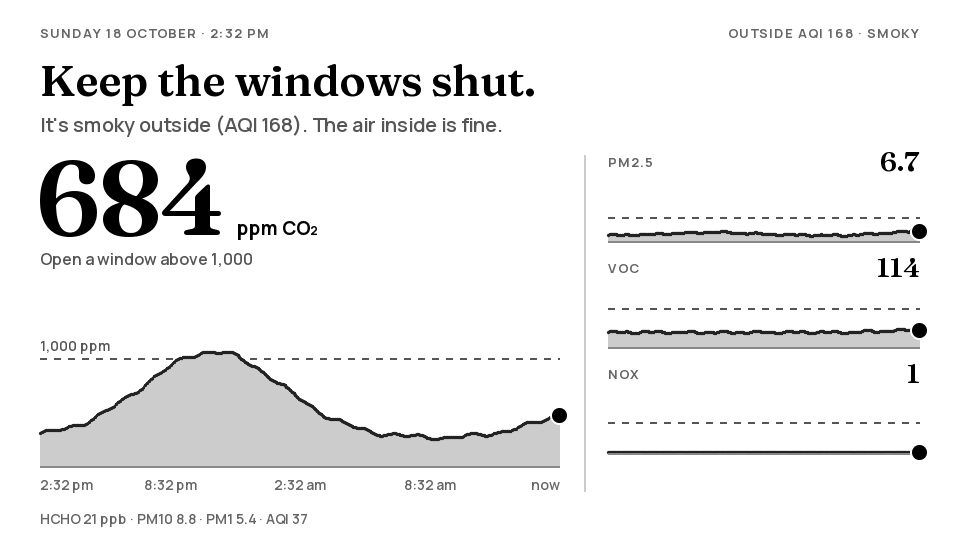
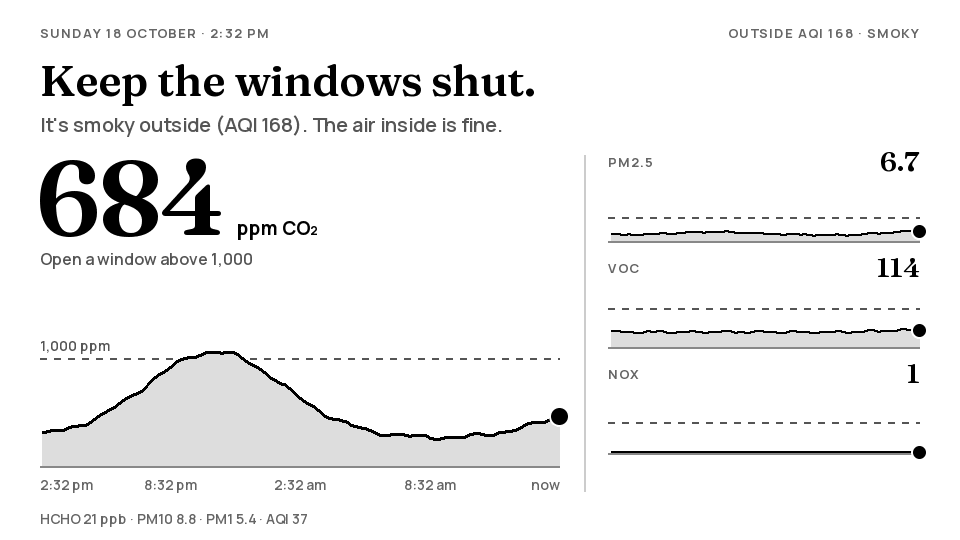
Plots: smooth, even line; option to scale each plot to its data
The line was anti-aliased at 1.6 px through every 5-minute point, and on
the panel's 16 greys that came out 1 px here and 2 px there, with the
sensor's noise on top: it looked hand-drawn. The readings are now
averaged into steps at least 3 px wide, lightly smoothed, and drawn as a
hard-edged line of even thickness (3 px on the big plot, 2 px on the
others) over a pale fill.

Settings > Main screen plots has "Scale each plot to its data". On,
each plot fits its own low and high (with a minimum range per reading so
noise isn't blown up), the big plot notes the low and high, and the
limit line only shows when the data comes near it. Firmware 2.1.

diff --git a/lib/ui/src/screen.cpp b/lib/ui/src/screen.cpp
@@ -175,55 +175,123 @@ Hero hero(const ScreenData &d) {
 }
 
 // ---- 24-hour chart -------------------------------------------------------------
-// labels: 0 none, 3 or 5 times along the bottom. hours: how far back it goes.
+// The smallest range a chart scaled to its data shows, so sensor noise isn't blown up into waves
+float min_span(Metric m) {
+  switch (m) {
+    case Metric::CO2: return 150;
+    case Metric::PM1:
+    case Metric::PM25:
+    case Metric::PM10: return 4;
+    case Metric::VOC: return 30;
+    case Metric::NOx: return 5;
+    case Metric::HCHO: return 10;
+    default: return 1;
+  }
+}
+
+std::string value_text(Metric m, float v) {
+  if (m == Metric::CO2) return air::with_commas(v);
+  return fmt(m == Metric::PM1 || m == Metric::PM25 || m == Metric::PM10 ? "%.1f" : "%.0f", v);
+}
+
+// labels: 0 none, 3 or 5 times along the bottom. hours: how far back it goes. thick: the line, px.
+// range: write the period's low and high above the chart (when it's scaled to the data).
 void chart(M5Canvas &c, const ScreenData &d, int x, int y, int w, int h, Metric m, float lo, float hi, float limit,
-           const std::string &limit_label, int labels, int hours = 24) {
+           const std::string &limit_label, int labels, int hours = 24, int thick = 2, bool range = false) {
   const air::History &hist = *d.history;
   const int slots = std::clamp(hours, 1, 24) * 12;   // 5-minute periods
   const int n = std::min(hist.size(), slots);
-  float top = hi;
-  for (int age = 0; age < n; age++) {
-    const float v = hist.at(m, age);
-    if (!std::isnan(v)) top = std::max(top, v * 1.1f);
+
+  // Averaged into steps at least 3 px wide, then lightly smoothed: drawn point by point, the
+  // sensor's 5-minute noise made the line look scribbled
+  const int per = std::max(1, (int) std::ceil(slots * 3.0f / w));   // 5-minute periods a step
+  const int steps = (slots + per - 1) / per;                         // step 0 is the newest
+  std::vector<float> avg(steps, NAN), sm(steps, NAN);
+  float vmin = INFINITY, vmax = -INFINITY;
+  for (int s = 0; s < steps; s++) {
+    float sum = 0;
+    int cnt = 0;
+    for (int age = s * per; age < std::min(n, (s + 1) * per); age++) {
+      const float v = hist.at(m, age);
+      if (std::isnan(v)) continue;
+      sum += v;
+      cnt++;
+      vmin = std::min(vmin, v);
+      vmax = std::max(vmax, v);
+    }
+    if (cnt) avg[s] = sum / cnt;
   }
-  auto X = [&](int age) { return x + w - 1 - age * (w - 1) / (slots - 1); };
+  for (int s = 0; s < steps; s++) {
+    if (std::isnan(avg[s])) continue;
+    float sum = 2 * avg[s], wsum = 2;
+    for (int nb : {s - 1, s + 1})
+      if (nb >= 0 && nb < steps && !std::isnan(avg[nb])) {
+        sum += avg[nb];
+        wsum += 1;
+      }
+    sm[s] = sum / wsum;
+  }
+  const bool any = vmin <= vmax;
+
+  // The scale: from the reading's usual range up to its limit, or fitted to the data
+  float top = hi;
+  if (any && d.fit_scale) {
+    const float span = std::max(vmax - vmin, min_span(m));
+    const float mid = (vmax + vmin) / 2;
+    lo = std::max(0.0f, mid - span * 0.6f);
+    top = lo + span * 1.35f;   // headroom, so the newest point's dot clears the value above the plot
+  } else if (any) {
+    top = std::max(hi, vmax * 1.1f);
+  }
+  auto X = [&](int step) { return x + w - 1 - step * per * (w - 1) / (slots - 1); };
   auto Y = [&](float v) { return y + h - (int) std::lround(std::clamp((v - lo) / (top - lo), 0.0f, 1.0f) * h); };
 
-  bool any = false;
-  for (int age = 0; age < n && !any; age++) any = !std::isnan(hist.at(m, age));
-
-  // Limit, dashed, under the data
+  // Limit, dashed, under the data (only when it's in range)
   if (any && limit > lo && limit < top) {
     const int ly = Y(limit);
     for (int xx = x; xx < x + w; xx += 14) c.fillRect(xx, ly - 1, std::min(7, x + w - xx), 2, grey(5));
     if (!limit_label.empty()) text(c, sans_small, limit_label, x, ly - 8, 5);
   }
-  // Shaded area and line, broken where there were no readings
-  int valid = 0, px = 0, py = 0, ex = -1, ey = -1;
-  for (int age = n - 1; age >= 0; age--) {
-    const float v = hist.at(m, age);
-    if (std::isnan(v)) {
-      valid = 0;
+  if (any && range) {
+    text(c, sans_small, "low " + value_text(m, vmin) + " · high " + value_text(m, vmax), x + w, y - 8, 6,
+         textdatum_t::baseline_right);
+  }
+
+  // The line's height in each pixel column (-1: no reading), joined straight between steps
+  std::vector<int> col(w, -1);
+  int px = -1, py = 0, ex = -1, ey = -1;
+  for (int s = steps - 1; s >= 0; s--) {
+    if (std::isnan(sm[s])) {
+      px = -1;
       continue;
     }
-    const int cx = X(age), cy = Y(v);
-    if (valid) {
-      for (int xi = px; xi <= cx; xi++) {
-        const int yi = py + (cy - py) * (xi - px) / std::max(1, cx - px);
-        c.drawFastVLine(xi, yi, y + h - yi, grey(12));
-      }
-      c.drawWideLine(px, py, cx, cy, 1.6f, grey(2));
-    }
+    const int cx = X(s), cy = Y(sm[s]);
+    if (px < 0) col[cx - x] = cy;
+    for (int xi = px < 0 ? cx : px; xi <= cx; xi++) col[xi - x] = py + (cy - py) * (xi - px) / std::max(1, cx - px);
+    if (px < 0) col[cx - x] = cy;
     px = cx;
     py = cy;
     ex = cx;
     ey = cy;
-    valid++;
+  }
+  // Pale fill, then a hard-edged line of even thickness (no anti-aliasing: on 16 greys that made
+  // it come out 1 px here and 2 px there)
+  for (int i = 0; i < w; i++)
+    if (col[i] >= 0) c.drawFastVLine(x + i, col[i], y + h - col[i], grey(13));
+  for (int i = 0; i < w; i++) {
+    if (col[i] < 0) continue;
+    int a = col[i], b = col[i];
+    if (i > 0 && col[i - 1] >= 0) {
+      a = std::min(a, col[i - 1]);
+      b = std::max(b, col[i - 1]);
+    }
+    c.drawFastVLine(x + i, a - thick / 2, b - a + thick, grey(0));
   }
   c.fillRect(x, y + h, w, 2, grey(8));
   if (ex >= 0) {
-    c.fillSmoothCircle(ex, ey, 9, grey(15));
-    c.fillSmoothCircle(ex, ey, 7, grey(0));
+    const int r = thick >= 3 ? 8 : 6;
+    c.fillSmoothCircle(ex, ey, r + 2, grey(15));
+    c.fillSmoothCircle(ex, ey, r, grey(0));
   } else if (w >= 440) {   // the small plots just stay empty
     text(c, sans_body, "The chart fills in over the next few hours.", x + w / 2, y + h / 2, 6, textdatum_t::middle_center);
   }
@@ -301,7 +369,7 @@ void side_plot(M5Canvas &c, const ScreenData &d, Metric m, int x, int y, int w, 
     const int vw = width(c, serif_value, it.value);
     c.fillRect(x + w - vw, y + 27, vw, 3, grey(0));
   }
-  chart(c, d, x, y + 32, w, h - 32, m, p.lo, p.hi, p.limit, "", 0, d.span_hours);
+  chart(c, d, x, y + 32, w, h - 32, m, p.lo, p.hi, p.limit, "", 0, d.span_hours, 2);
 }
 
 void draw_main(M5Canvas &c, const ScreenData &d) {
@@ -341,7 +409,7 @@ void draw_main(M5Canvas &c, const ScreenData &d) {
   text(c, sans_note, h.note, kMargin, base + 30, 5);
   const int chart_y = base + 52;
   chart(c, d, kMargin, chart_y, kMainW, kBottom - chart_y, h.metric, p.lo, p.hi, p.limit, p.limit_label, 5,
-        d.span_hours);
+        d.span_hours, 3, d.fit_scale);
 
   Metric side[3];
   side_metrics(d, h.metric, side);
@@ -411,7 +479,7 @@ std::string signature(const ScreenData &d) {
                   std::to_string(d.outdoor.ok ? d.outdoor.aqi : -1) + '|' + d.advice.headline + '|' + d.advice.detail +
                   '|' + d.advice.outdoor + '|' + std::to_string(d.history ? d.history->version() : 0) + '|' +
                   std::to_string(d.indoor_aqi) + '|' + std::to_string((int) d.big) + std::to_string((int) d.side[0]) +
-                  std::to_string((int) d.side[1]) + std::to_string((int) d.side[2]) + '|' + std::to_string(d.span_hours);
+                  std::to_string((int) d.side[1]) + std::to_string((int) d.side[2]) + '|' + std::to_string(d.span_hours) + (d.fit_scale ? "f" : "");
   if (d.time_valid) s += '|' + std::to_string(d.local_time.tm_yday) + clock_text(d, d.local_time);
   for (int m = 0; m < air::kMetrics; m++)
     if ((Metric) m != Metric::Temp && (Metric) m != Metric::Humidity) s += '|' + item(d, (Metric) m).value;

diff --git a/src/web_page.h b/src/web_page.h
@@ -197,6 +197,8 @@ input[type=file]{padding:8px}
 <label>Big plot</label><select name="pl_big" data-v="%PL_BIG%"><option value="-1">Automatic: whatever the advice is about</option><option value="0">CO₂</option><option value="2">PM2.5</option><option value="1">PM1</option><option value="3">PM10</option><option value="4">VOC index</option><option value="5">NOx index</option><option value="6">Formaldehyde (needs an SFA40)</option></select>
 <div class="row"><div><label>Side plot 1</label><select name="pl_s1" data-v="%PL_S1%"><option value="0">CO₂</option><option value="2">PM2.5</option><option value="1">PM1</option><option value="3">PM10</option><option value="4">VOC index</option><option value="5">NOx index</option><option value="6">Formaldehyde (needs an SFA40)</option></select></div><div><label>Side plot 2</label><select name="pl_s2" data-v="%PL_S2%"><option value="0">CO₂</option><option value="2">PM2.5</option><option value="1">PM1</option><option value="3">PM10</option><option value="4">VOC index</option><option value="5">NOx index</option><option value="6">Formaldehyde (needs an SFA40)</option></select></div></div>
 <div class="row"><div><label>Side plot 3</label><select name="pl_s3" data-v="%PL_S3%"><option value="0">CO₂</option><option value="2">PM2.5</option><option value="1">PM1</option><option value="3">PM10</option><option value="4">VOC index</option><option value="5">NOx index</option><option value="6">Formaldehyde (needs an SFA40)</option></select></div><div><label>Time span</label><select name="pl_hrs" data-v="%PL_HRS%"><option value="6">6 hours</option><option value="12">12 hours</option><option value="24">24 hours</option></select></div></div>
+<label class="chk" style="display:flex;align-items:center;gap:10px;color:var(--ink);font-size:15px;font-weight:400;margin:16px 0 4px"><input type="checkbox" name="pl_fit" value="1" %PL_FIT_SEL% style="width:18px;height:18px;margin:0">Scale each plot to its data</label>
+<p class="hint">Off, each plot runs from its usual floor to past its limit, so clean air is a flat line near the bottom. On, small changes show, the big plot notes its low and high, and the limit line only appears when the data comes near it.</p>
 <p class="hint">Automatic shows CO₂ until another reading needs attention. A reading chosen twice, or already in the big plot, is swapped for one that isn't on screen. Readings without a plot go in the line along the bottom.</p></div>
 <h2>Home Assistant</h2><div class="card">
 <p class="hint" style="margin:0">Over MQTT, with discovery: the Mosquitto broker add-on and the MQTT integration. PaperAir then shows up by itself as a device. Now: <b>%MQ_STATUS%</b>.</p>

diff --git a/src/web.cpp b/src/web.cpp
@@ -317,6 +317,7 @@ void handle_settings_page() {
   page.replace("%PL_S2%", String(settings.plot_side[1]));
   page.replace("%PL_S3%", String(settings.plot_side[2]));
   page.replace("%PL_HRS%", String(settings.plot_hours));
+  page.replace("%PL_FIT_SEL%", settings.plot_fit ? "checked" : "");
   page.replace("%T_OFF%", String(settings.temperature_offset_c, 1));
   page.replace("%TZ%", html_escape(settings.time_zone));
   page.replace("%MQ_HOST%", html_escape(settings.mqtt_host));
@@ -384,6 +385,7 @@ void handle_settings_post() {
     settings.plot_side[2] = metric(server.arg("pl_s3"), 5);
     const int hours = server.arg("pl_hrs").toInt();
     settings.plot_hours = hours == 6 || hours == 12 ? hours : 24;
+    settings.plot_fit = server.arg("pl_fit") == "1";
   }
   settings.temperature_offset_c = server.arg("t_off").toFloat();
   String tz = server.arg("tz");

diff --git a/src/settings.cpp b/src/settings.cpp
@@ -62,6 +62,7 @@ void settings_load() {
   settings.plot_side[1] = p.getInt("pl_s2", 4);
   settings.plot_side[2] = p.getInt("pl_s3", 5);
   settings.plot_hours = p.getInt("pl_hrs", 24);
+  settings.plot_fit = p.getBool("pl_fit", false);
   settings.time_zone = p.getString("tz", config::kTimeZone);
   settings.mqtt_host = p.getString("mq_host", MQTT_HOST);
   settings.mqtt_port = p.getInt("mq_port", MQTT_PORT);
@@ -96,6 +97,7 @@ void settings_save() {
   p.putInt("pl_s2", settings.plot_side[1]);
   p.putInt("pl_s3", settings.plot_side[2]);
   p.putInt("pl_hrs", settings.plot_hours);
+  p.putBool("pl_fit", settings.plot_fit);
   p.putString("tz", settings.time_zone);
   p.putString("mq_host", settings.mqtt_host);
   p.putInt("mq_port", settings.mqtt_port);

diff --git a/src/main.cpp b/src/main.cpp
@@ -319,6 +319,7 @@ ui::ScreenData screen_data() {
   d.big = metric(settings.plot_big);
   for (int i = 0; i < 3; i++) d.side[i] = metric(settings.plot_side[i]);
   d.span_hours = settings.plot_hours == 6 || settings.plot_hours == 12 ? settings.plot_hours : 24;
+  d.fit_scale = settings.plot_fit;
   const float pm25 = d.now[Metric::PM25];
   d.indoor_aqi = std::isnan(pm25) ? -1 : air::aqi_from_pm25(pm25);
   d.hcho_fitted = sfa40.found();

diff --git a/lib/ui/src/screen.h b/lib/ui/src/screen.h
@@ -38,6 +38,7 @@ struct ScreenData {
   air::Metric big = air::Metric::Count;
   air::Metric side[3] = {air::Metric::PM25, air::Metric::VOC, air::Metric::NOx};
   int span_hours = 24;                  // how far back the main page's plots go: 6, 12 or 24
+  bool fit_scale = false;               // plots scaled to their data, not from zero to past the limit
 };
 
 void draw(M5Canvas &canvas, const ScreenData &d);

diff --git a/src/settings.h b/src/settings.h
@@ -21,6 +21,7 @@ struct Settings {
   int plot_big = -1;
   int plot_side[3] = {2, 4, 5};             // PM2.5, VOC, NOx
   int plot_hours = 24;                      // 6, 12 or 24
+  bool plot_fit = false;                    // scale the plots to their data
   String time_zone;
   String mqtt_host, mqtt_user, mqtt_password;   // Home Assistant's MQTT broker; empty host = off
   int mqtt_port = 1883;

diff --git a/src/version.h b/src/version.h
@@ -1,5 +1,5 @@
 #pragma once
 // The firmware version shown on the web page and in the serial log. Bump it when you change
 // something worth telling apart; the build date and time are added by the compiler.
-constexpr const char *kVersion = "2.0";
+constexpr const char *kVersion = "2.1";
 constexpr const char *kBuild = __DATE__ " " __TIME__;

diff --git a/preview/preview_main.cpp b/preview/preview_main.cpp
@@ -132,6 +132,7 @@ int main() {
            d.side[1] = Metric::HCHO;
            d.side[2] = Metric::VOC;
            d.span_hours = 6;
+           d.fit_scale = true;
          });
   render(c, "trends", Day{}, clean, [](ui::ScreenData &d, air::Readings &) { d.page = ui::Page::Trends; });
   return 0;
